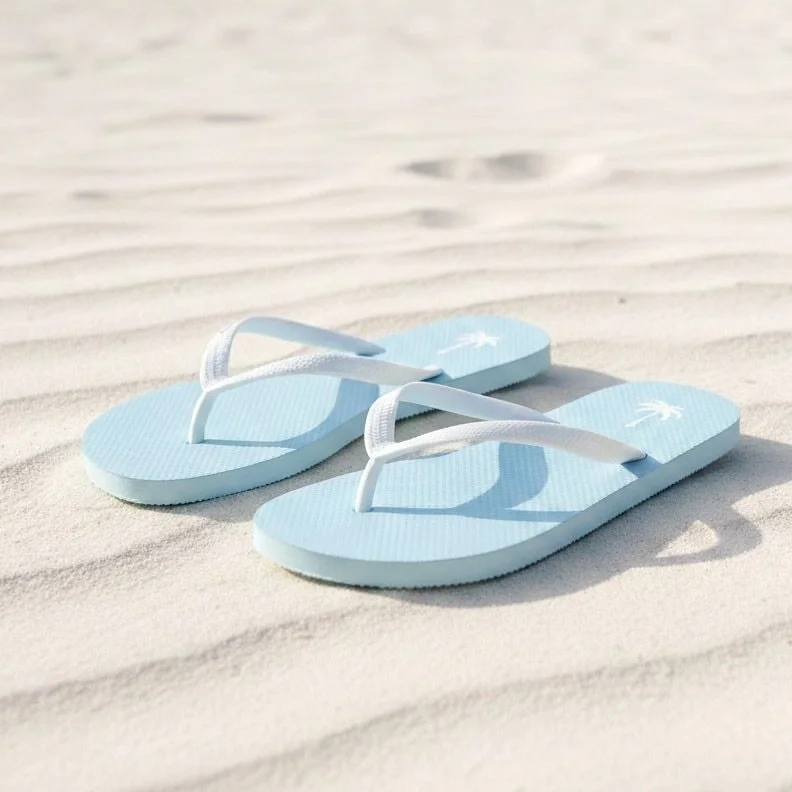
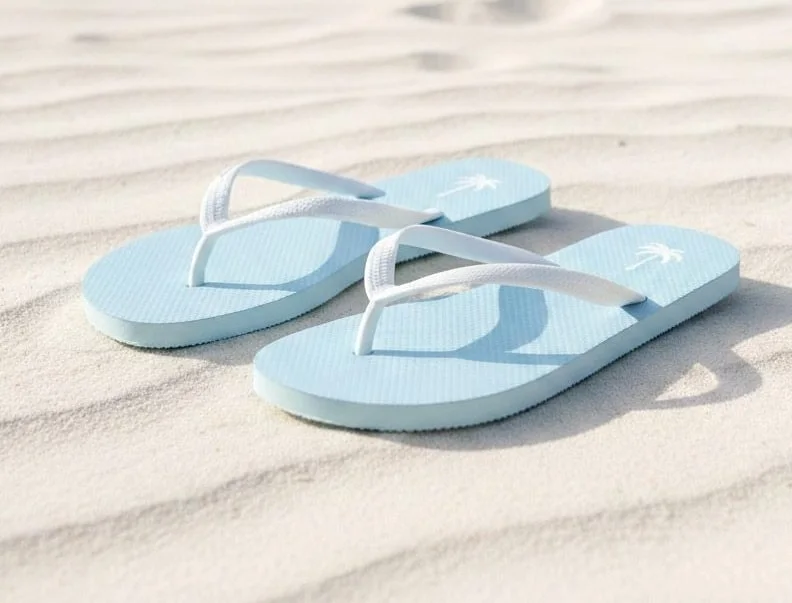
Interim homepage card crops: product at the exact centre of each 4:3 card (flip-flops, leather goods, slippers, accessories)

diff --git a/docs/ROADMAP.md b/docs/ROADMAP.md
@@ -343,4 +343,4 @@ update ALL count assertions deliberately (products 39→45, categories 7→8).*
 - 2026-11-24 — Bags lifestyle photography delivered: `cat-bags.jpg` (woven tote on a sage door, 1628×966) is the category hero, bags/landing og:image, poolside collection image and lookbook cover; `cat-bags-square.jpg` (966×966, centred on the tote) feeds the homepage feature card.
 - 2026-11-24 — Bottles product photography (all four): W-001..W-004 PNG cutouts flattened onto sun white #FCF8EE at 1000×1000, opaque WebP (no alpha), `flat: true` renderer, 480px + lookbook print variants regenerated. Category hero `cat-bottles.jpg` unchanged (no lifestyle shot supplied yet).
 - 2026-11-24 — Bottles lifestyle photography delivered: `cat-bottles.jpg` (green bottle on a seaside terrace table, 1628×966) is the category hero, bottles og:image and sports-wellness collection image; `cat-bottles-square.jpg` (966×966, centred on the bottle) feeds the homepage card.
-- 2026-11-24 — Interim category photos (flip-flops, leather goods, slippers, accessories) recropped: the portrait catalog scans put the product in the lower third, and landscape frames cut it off. Hero files are now landscape crops centred on the product; `cat-<slug>-square.jpg` crops feed the homepage cards. To be replaced by real lifestyle photography.
+- 2026-11-24 — Interim category photos (flip-flops, leather goods, slippers, accessories) recropped: the portrait catalog scans put the product in the lower third, and landscape frames cut it off. Hero files are now landscape crops centred on the product; `cat-<slug>-square.jpg` card crops (4:3, product at exact centre; not true squares for these four) feed the homepage cards. To be replaced by real lifestyle photography.
